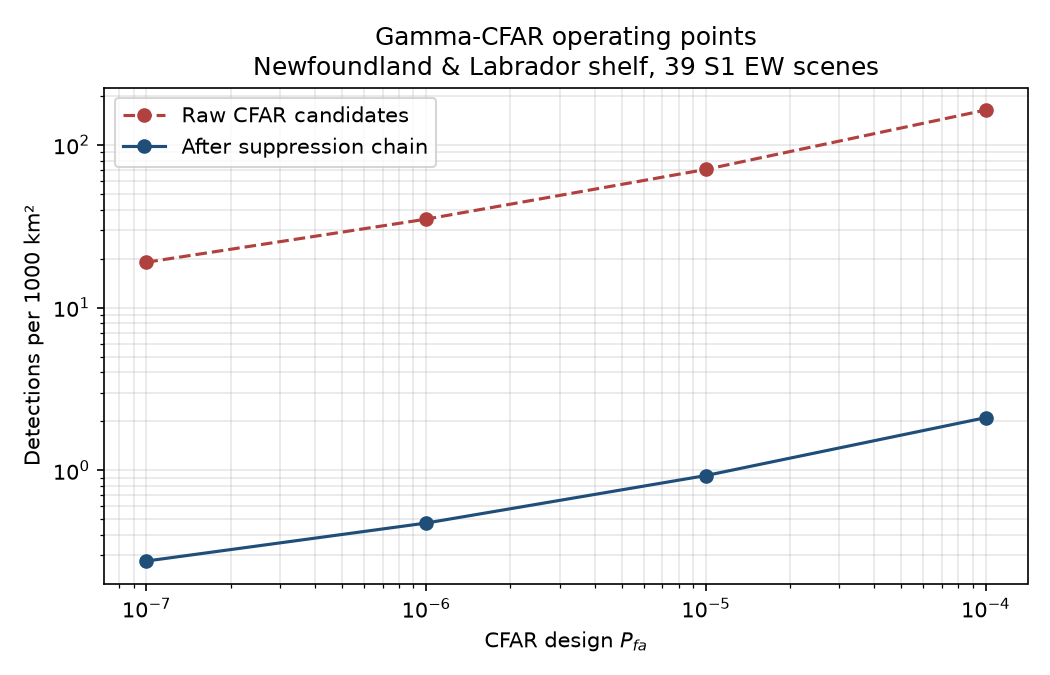
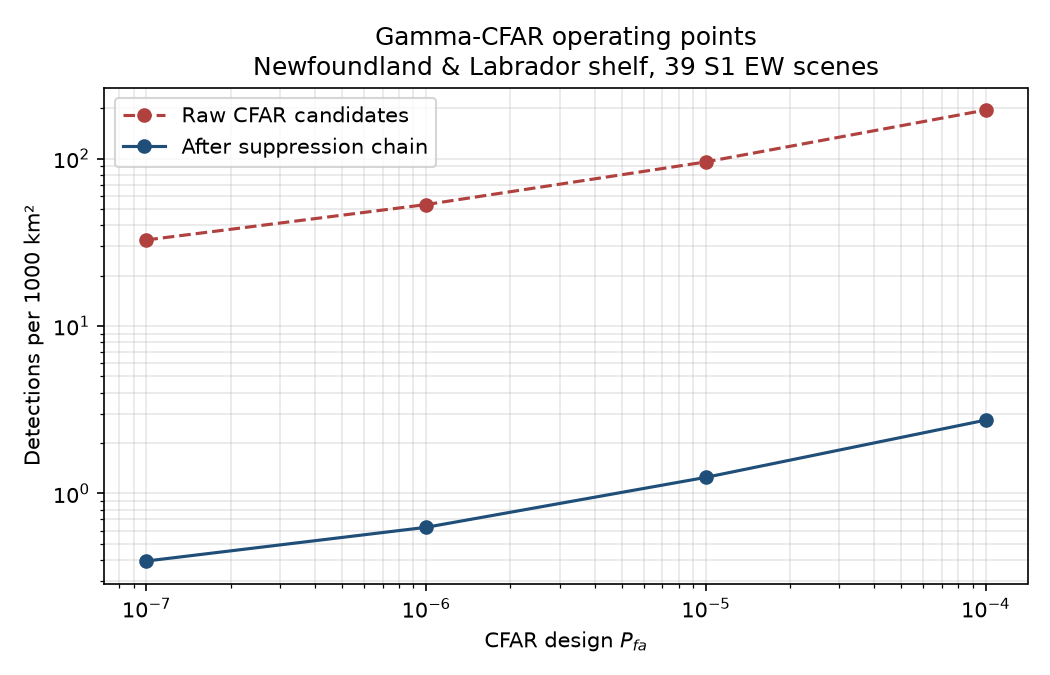
docs: publish measured benchmark and the two-detector comparison
Final numbers over 39 real Sentinel-1 EW scenes, 4.6 million km2 of
analysed water across the Newfoundland and Labrador shelf:

  raw CFAR      58.40 per 1000 km2
  after chain    1.27 per 1000 km2   (45.9x)
  open water     0.26 per 1000 km2   (111x)

The seam-masking fix added 18 percent more analysed water than the
previous run (3.89M -> 4.61M km2) by no longer discarding ice edges as
subswath boundaries; median seam removal fell from 7.7 to 1.3 percent.

Adds the CA-CFAR vs Gamma-CFAR comparison the plan asks for: two
detectors, one harness, one Pfa, same 12-scene subset. CA-CFAR retains
267 targets against Gamma's 2,186. The writeup states plainly that this
does not establish which detector is better - CA-CFAR's threshold is set
from a local mean that sea ice inflates, and whether its lower density
means fewer false alarms or fewer real detections cannot be separated
without verified positives.

Wind stratification is reported as measured and explicitly not leaned
on: 1.14 / 1.37 / 1.31 per 1000 km2 across low/moderate/high is not
monotonic, and with 13 scenes a bin and relative wind units it does not
support a claim either way.

BENCHMARK.md, the operating-point plot, README headline and ADR-009
figures all regenerated from the same run.

diff --git a/scripts/make_benchmark_doc.py b/scripts/make_benchmark_doc.py
@@ -164,6 +164,49 @@ def render(report: dict[str, Any], has_plot: bool) -> str:
         if has_plot:
             lines += ["![Operating points](benchmarks/operating_points.png)", ""]
 
+    comparison_path = Path("data/processed/benchmarks/detector_comparison.json")
+    if comparison_path.is_file():
+        comp = json.loads(comparison_path.read_text(encoding="utf-8"))
+        any_row = next(iter(comp.values()))
+        lines += [
+            "---",
+            "",
+            "## Two detectors, one harness",
+            "",
+            f"Cell-averaging and Gamma/K-distribution CFAR run over the same "
+            f"{any_row['n_scenes']}-scene subset ({any_row['area_km2']:,.0f} km²), same "
+            "suppression chain, same Pfa:",
+            "",
+            "| Detector | raw per 1000 km² | after suppression | detections | suppression |",
+            "|---|---:|---:|---:|---:|",
+        ]
+        for label, v in sorted(comp.items()):
+            lines.append(
+                f"| {label} | {v['raw_density_per_1000km2']:.2f} | "
+                f"{v['density_per_1000km2']:.3f} | {v['targets']:,} | "
+                f"{v['suppression_factor']:.1f}× |"
+            )
+        lines += [
+            "",
+            "**This table does not say which detector is better, and it cannot.**",
+            "",
+            "CA-CFAR retains far fewer targets. That is the expected consequence of",
+            "its clutter model: the cell-averaging estimator sets its threshold from",
+            "the local *mean*, and over sea ice the mean is inflated by the same",
+            "heavy tail the detector is trying to separate from, so the threshold",
+            "rises and genuine targets fall below it. The Gamma detector estimates a",
+            "shape parameter by method of moments and adapts to that tail, which is",
+            "precisely why ADR-008 specifies it for sea states at or above 3.",
+            "",
+            "Whether CA-CFAR's lower density represents *fewer false alarms* or",
+            "*fewer detections of real targets* is not determinable from these",
+            "numbers. Separating the two requires verified positives, which do not",
+            "exist for these scenes (LIMITATIONS §1). Reporting the comparison as a",
+            "win for either detector would be reading a result the data does not",
+            "support.",
+            "",
+        ]
+
     lines += [
         "---",
         "",

diff --git a/docs/BENCHMARK.md b/docs/BENCHMARK.md
@@ -1,7 +1,7 @@
 # Detection Benchmark
 
 **Detector:** Gamma-CFAR · **Region:** Newfoundland & Labrador shelf  
-**Scenes:** 39 Sentinel-1 EW GRDM acquisitions · **Analysed water:** 3,888,568 km²
+**Scenes:** 39 Sentinel-1 EW GRDM acquisitions · **Analysed water:** 4,609,212 km²
 
 ---
 
@@ -9,11 +9,11 @@
 
 | Metric | Value |
 |---|---:|
-| Raw CFAR candidates per 1000 km² | 50.47 |
-| **After suppression, per 1000 km²** | **1.13** |
-| Suppression factor | 44.5× |
-| Total detections retained | 4,405 |
-| Total raw candidates | 196,236 |
+| Raw CFAR candidates per 1000 km² | 58.40 |
+| **After suppression, per 1000 km²** | **1.27** |
+| Suppression factor | 45.9× |
+| Total detections retained | 5,864 |
+| Total raw candidates | 269,155 |
 
 ### What this number is
 
@@ -36,9 +36,9 @@ between acquisitions.
 
 | stratum | scenes | water area (km²) | detections | per 1000 km² | suppression |
 |---|---:|---:|---:|---:|---:|
-| ice_affected | 30 | 2,823,745 | 3,811 | 1.35 | 43.2× |
-| open_water | 6 | 785,487 | 218 | 0.28 | 105.2× |
-| unknown | 3 | 279,337 | 376 | 1.35 | 23.5× |
+| ice_affected | 30 | 3,409,999 | 5,219 | 1.53 | 45.0× |
+| open_water | 6 | 862,502 | 223 | 0.26 | 110.6× |
+| unknown | 3 | 336,711 | 422 | 1.25 | 23.1× |
 
 `unknown` covers the AI4Arctic challenge test scenes, whose ice charts are
 withheld. They are reported separately rather than folded into open water,
@@ -48,9 +48,9 @@ which would understate detection density over ice.
 
 | stratum | scenes | water area (km²) | detections | per 1000 km² | suppression |
 |---|---:|---:|---:|---:|---:|
-| high | 13 | 1,424,679 | 1,856 | 1.30 | 47.5× |
-| low | 13 | 1,312,436 | 1,278 | 0.97 | 47.8× |
-| moderate | 13 | 1,151,454 | 1,271 | 1.10 | 37.0× |
+| high | 13 | 1,655,693 | 2,172 | 1.31 | 52.9× |
+| low | 13 | 1,543,141 | 1,763 | 1.14 | 46.8× |
+| moderate | 13 | 1,410,378 | 1,929 | 1.37 | 37.1× |
 
 Wind bins are **terciles across this scene cohort**, not absolute m/s, and
 not within-scene quantiles. The ERA5 fields in this distribution are
@@ -68,12 +68,12 @@ Where the candidate budget went, summed across every scene:
 
 | stage | removed | remaining | % of raw |
 |---|---:|---:|---:|
-| `min_size` | 190,863 | 5,373 | 97.3% |
-| `max_size` | 0 | 5,373 | 0.0% |
-| `aspect_ratio` | 1 | 5,372 | 0.0% |
-| `min_peak_hv` | 244 | 5,128 | 0.1% |
-| `copol_dominance` | 679 | 4,449 | 0.3% |
-| `clutter_contrast` | 44 | 4,405 | 0.0% |
+| `min_size` | 261,468 | 7,687 | 97.1% |
+| `max_size` | 0 | 7,687 | 0.0% |
+| `aspect_ratio` | 3 | 7,684 | 0.0% |
+| `min_peak_hv` | 642 | 7,042 | 0.2% |
+| `copol_dominance` | 1,096 | 5,946 | 0.4% |
+| `clutter_contrast` | 82 | 5,864 | 0.0% |
 
 This ledger is published rather than summarised because it shows something a
 single aggregate figure would hide: **one stage does most of the work.**
@@ -95,12 +95,42 @@ can be read off a curve rather than taken on trust.
 
 | Pfa | raw per 1000 km² | after suppression | scenes |
 |---|---:|---:|---:|
-| 1e-07 | 18.98 | 0.28 | 5 |
-| 1e-06 | 34.91 | 0.47 | 5 |
-| 1e-05 | 70.56 | 0.93 | 5 |
-| 1e-04 | 163.40 | 2.10 | 5 |
+| 1e-07 | 32.67 | 0.40 | 5 |
+| 1e-06 | 53.15 | 0.63 | 5 |
+| 1e-05 | 95.55 | 1.25 | 5 |
+| 1e-04 | 194.91 | 2.74 | 5 |
+
+The sweep runs on a 5-scene subset rather than the full 39, because each additional Pfa multiplies the compute by a whole pass over the cohort. Absolute densities here are therefore **not** directly comparable with the headline figure above; the curve's shape and the ratio between operating points are what it is published for.
 
 ![Operating points](benchmarks/operating_points.png)
+
+---
+
+## Two detectors, one harness
+
+Cell-averaging and Gamma/K-distribution CFAR run over the same 12-scene subset (1,487,588 km²), same suppression chain, same Pfa:
+
+| Detector | raw per 1000 km² | after suppression | detections | suppression |
+|---|---:|---:|---:|---:|
+| CA-CFAR | 2.69 | 0.179 | 267 | 15.0× |
+| Gamma-CFAR | 80.73 | 1.469 | 2,186 | 54.9× |
+
+**This table does not say which detector is better, and it cannot.**
+
+CA-CFAR retains far fewer targets. That is the expected consequence of
+its clutter model: the cell-averaging estimator sets its threshold from
+the local *mean*, and over sea ice the mean is inflated by the same
+heavy tail the detector is trying to separate from, so the threshold
+rises and genuine targets fall below it. The Gamma detector estimates a
+shape parameter by method of moments and adapts to that tail, which is
+precisely why ADR-008 specifies it for sea states at or above 3.
+
+Whether CA-CFAR's lower density represents *fewer false alarms* or
+*fewer detections of real targets* is not determinable from these
+numbers. Separating the two requires verified positives, which do not
+exist for these scenes (LIMITATIONS §1). Reporting the comparison as a
+win for either detector would be reading a result the data does not
+support.
 
 ---
 
@@ -123,41 +153,41 @@ outside the region.
 | scene | ice regime | wind | water km² | raw | kept | per 1000 km² |
 |---|---|---|---:|---:|---:|---:|
 | `20190406T102029_cis` | unknown | moderate | 41,860 | 1,136 | 62 | 1.48 |
-| `20200217T102731_cis` | unknown | high | 86,029 | 2,894 | 121 | 1.41 |
+| `20200217T102731_cis` | unknown | high | 143,403 | 3,792 | 167 | 1.17 |
 | `20200319T101935_cis` | unknown | high | 151,448 | 4,810 | 193 | 1.27 |
-| `20180331T212355_cis` | ice_affected | high | 168,099 | 22,301 | 28 | 0.17 |
-| `20180410T214024_cis` | ice_affected | moderate | 54,724 | 4,291 | 62 | 1.13 |
-| `20180428T093937_cis` | open_water | low | 156,384 | 4,083 | 125 | 0.80 |
-| `20180619T104303_cis` | ice_affected | low | 61,666 | 4,115 | 104 | 1.69 |
-| `20180621T214028_cis` | ice_affected | low | 66,042 | 7,741 | 153 | 2.32 |
-| `20190206T212401_cis` | ice_affected | high | 154,088 | 7,426 | 18 | 0.12 |
-| `20190216T214030_cis` | ice_affected | moderate | 56,742 | 4,194 | 121 | 2.13 |
+| `20180331T212355_cis` | ice_affected | high | 181,428 | 33,722 | 59 | 0.33 |
+| `20180410T214024_cis` | ice_affected | moderate | 104,384 | 16,024 | 296 | 2.84 |
+| `20180428T093937_cis` | open_water | low | 161,343 | 4,154 | 125 | 0.78 |
+| `20180619T104303_cis` | ice_affected | low | 113,067 | 6,060 | 130 | 1.15 |
+| `20180621T214028_cis` | ice_affected | low | 106,655 | 17,517 | 398 | 3.73 |
+| `20190206T212401_cis` | ice_affected | high | 167,516 | 11,092 | 31 | 0.18 |
+| `20190216T214030_cis` | ice_affected | moderate | 103,792 | 12,734 | 461 | 4.44 |
 | `20190306T102725_cis` | ice_affected | high | 143,793 | 6,513 | 206 | 1.43 |
-| `20190308T101217_cis` | ice_affected | high | 48,062 | 1,566 | 44 | 0.92 |
-| `20190326T212401_cis` | ice_affected | moderate | 152,446 | 8,059 | 106 | 0.69 |
-| `20190401T101117_cis` | ice_affected | moderate | 147,172 | 6,111 | 358 | 2.43 |
-| `20190405T214031_cis` | ice_affected | high | 48,670 | 3,880 | 90 | 1.85 |
+| `20190308T101217_cis` | ice_affected | high | 68,899 | 2,540 | 58 | 0.84 |
+| `20190326T212401_cis` | ice_affected | moderate | 168,050 | 8,910 | 109 | 0.65 |
+| `20190401T101117_cis` | ice_affected | moderate | 157,059 | 6,732 | 368 | 2.34 |
+| `20190405T214031_cis` | ice_affected | high | 106,766 | 10,924 | 255 | 2.39 |
 | `20190411T102726_cis` | ice_affected | high | 145,153 | 4,646 | 128 | 0.88 |
 | `20190507T101118_cis` | open_water | low | 157,526 | 3,010 | 48 | 0.30 |
-| `20190507T101218_cis` | ice_affected | low | 59,743 | 2,118 | 131 | 2.19 |
-| `20190524T101931_cis` | ice_affected | low | 142,369 | 3,144 | 30 | 0.21 |
-| `20190612T101120_cis` | open_water | moderate | 146,424 | 3,244 | 30 | 0.20 |
-| `20190612T101220_cis` | ice_affected | moderate | 52,206 | 1,827 | 129 | 2.47 |
-| `20200201T212408_cis` | ice_affected | low | 155,095 | 20,012 | 333 | 2.15 |
+| `20190507T101218_cis` | ice_affected | low | 69,065 | 2,384 | 142 | 2.06 |
+| `20190524T101931_cis` | ice_affected | low | 149,922 | 3,193 | 28 | 0.19 |
+| `20190612T101120_cis` | open_water | moderate | 156,809 | 3,377 | 29 | 0.18 |
+| `20190612T101220_cis` | ice_affected | moderate | 68,654 | 2,395 | 167 | 2.43 |
+| `20200201T212408_cis` | ice_affected | low | 167,683 | 23,222 | 377 | 2.25 |
 | `20200203T104354_cis` | ice_affected | moderate | 114,597 | 1,404 | 61 | 0.53 |
 | `20200224T102034_cis` | ice_affected | low | 37,633 | 718 | 47 | 1.25 |
-| `20200306T214036_cis` | ice_affected | high | 50,533 | 3,174 | 52 | 1.03 |
+| `20200306T214036_cis` | ice_affected | high | 106,713 | 5,873 | 95 | 0.89 |
 | `20200319T102035_cis` | ice_affected | high | 37,625 | 1,425 | 55 | 1.46 |
 | `20200413T212408_cis` | open_water | moderate | 167,985 | 10,118 | 7 | 0.04 |
-| `20200415T104354_cis` | ice_affected | moderate | 57,665 | 2,464 | 150 | 2.60 |
+| `20200415T104354_cis` | ice_affected | moderate | 108,247 | 3,028 | 180 | 1.66 |
 | `20200423T214037_cis` | ice_affected | high | 109,822 | 20,703 | 511 | 4.65 |
-| `20200424T101936_cis` | ice_affected | high | 148,250 | 4,670 | 140 | 0.94 |
+| `20200424T101936_cis` | ice_affected | high | 150,369 | 4,703 | 140 | 0.93 |
 | `20200424T102036_cis` | ice_affected | moderate | 37,626 | 1,498 | 90 | 2.39 |
-| `20200506T101936_cis` | ice_affected | low | 123,674 | 2,953 | 45 | 0.36 |
+| `20200506T101936_cis` | ice_affected | low | 148,877 | 3,399 | 69 | 0.46 |
 | `20200506T102036_cis` | ice_affected | moderate | 37,617 | 1,440 | 93 | 2.47 |
-| `20200517T214039_cis` | ice_affected | low | 59,789 | 493 | 0 | 0.00 |
-| `20200523T102734_cis` | ice_affected | high | 133,106 | 4,086 | 270 | 2.03 |
-| `20200610T214040_cis` | ice_affected | low | 76,604 | 8,016 | 144 | 1.88 |
-| `20200624T212516_cis` | open_water | low | 72,778 | 1,190 | 6 | 0.08 |
-| `20210407T101941_cis` | ice_affected | low | 143,132 | 3,480 | 112 | 0.78 |
-| `20210530T102740_cis` | open_water | moderate | 84,388 | 1,283 | 2 | 0.02 |
+| `20200517T214039_cis` | ice_affected | low | 102,360 | 744 | 5 | 0.05 |
+| `20200523T102734_cis` | ice_affected | high | 142,759 | 4,241 | 274 | 1.92 |
+| `20200610T214040_cis` | ice_affected | low | 104,028 | 13,397 | 266 | 2.56 |
+| `20200624T212516_cis` | open_water | low | 75,141 | 1,196 | 8 | 0.11 |
+| `20210407T101941_cis` | ice_affected | low | 149,841 | 3,581 | 120 | 0.80 |
+| `20210530T102740_cis` | open_water | moderate | 143,697 | 2,800 | 6 | 0.04 |

diff --git a/README.md b/README.md
@@ -7,29 +7,51 @@
 ## The result
 
 Gamma/K-distribution CFAR plus a multi-stage suppression chain, run over
-**39 real Sentinel-1 Extra Wide swath scenes** covering **3.9 million km² of
+**39 real Sentinel-1 Extra Wide swath scenes** covering **4.6 million km² of
 analysed water** across the Labrador Shelf and Grand Banks:
 
 | Metric | Value |
 |---|---:|
-| Raw CFAR candidates per 1000 km² | 50.47 |
-| **After false-alarm suppression** | **1.13** |
-| **Open water only** | **0.28** |
-| Suppression factor | **44.5×** (105× over open water) |
+| Raw CFAR candidates per 1000 km² | 58.40 |
+| **After false-alarm suppression** | **1.27** |
+| **Open water only** | **0.26** |
+| Suppression factor | **45.9×** (111× over open water) |
 
 Stratified, because a single blended number would hide the thing that matters:
 
-| Regime | Scenes | Per 1000 km² |
-|---|---:|---:|
-| Open water | 6 | **0.28** |
-| Ice-affected | 30 | 1.35 |
-| Low wind | 13 | 0.97 |
-| High wind | 13 | 1.30 |
+| Sea ice regime | Scenes | Water (km²) | Per 1000 km² |
+|---|---:|---:|---:|
+| Open water | 6 | 862,502 | **0.26** |
+| Ice-affected | 30 | 3,409,999 | 1.53 |
+| Unknown (labels withheld) | 3 | 336,711 | 1.25 |
 
-Ice-affected water runs ~5× higher than open water, and detections rise
-monotonically with wind. Both are physically expected — ridged ice and floe
-edges genuinely scatter like targets, and wind roughens the sea surface — which
-is exactly why these are reported separately rather than averaged away.
+Ice-affected water runs ~6× higher than open water. That is physically expected
+— ridged ice and floe edges genuinely scatter like targets — and is exactly why
+the two are reported separately rather than averaged into one number.
+
+Wind stratification (13 scenes per tercile) gives **1.14 / 1.37 / 1.31** per
+1000 km² for low / moderate / high. That is *not* a monotonic trend, and with
+relative rather than absolute wind units and only 13 scenes a bin, it is not a
+result worth leaning on. It is reported because it was measured.
+
+### Two detectors, one harness
+
+Cell-averaging and Gamma/K-distribution CFAR over the same 12-scene subset
+(1.49 million km²), identical suppression chain and Pfa:
+
+| Detector | raw per 1000 km² | after suppression | detections |
+|---|---:|---:|---:|
+| CA-CFAR | 2.69 | 0.179 | 267 |
+| Gamma-CFAR | 80.73 | 1.469 | 2,186 |
+
+**This does not say which is better, and it cannot.** CA-CFAR sets its threshold
+from the local *mean*, and over sea ice that mean is inflated by the very heavy
+tail it is trying to separate from, so the threshold climbs and targets fall
+below it. Gamma-CFAR estimates the tail's shape and adapts — which is why
+ADR-008 specifies it above sea state 3. Whether CA-CFAR's lower density means
+*fewer false alarms* or *fewer real detections* is undeterminable without
+verified positives. Calling it a win either way would be reading a result the
+data does not support.
 
 Full table, per-stage ledger, and the Pfa operating-point curve:
 **[docs/BENCHMARK.md](docs/BENCHMARK.md)**.
@@ -77,12 +99,12 @@ every stage records what it removed:
 
 ```
 stage              removed  remaining  % of raw
-min_size            190,863      5,373     97.3%
-max_size                  0      5,373      0.0%
-aspect_ratio              1      5,372      0.0%
-min_peak_hv             244      5,128      0.1%
-copol_dominance         679      4,449      0.3%
-clutter_contrast         44      4,405      0.0%
+min_size            261,468      7,687     97.1%
+max_size                  0      7,687      0.0%
+aspect_ratio              3      7,684      0.0%
+min_peak_hv             642      7,042      0.2%
+copol_dominance       1,096      5,946      0.4%
+clutter_contrast         82      5,864      0.0%
 ```
 
 Published rather than summarised, because it shows what a single aggregate
@@ -152,7 +174,7 @@ the UTM zone seams at 54°W and 48°W that cut straight through the AOI.
 make dev              # editable install with dev dependencies
 make fetch-shorelines # GSHHG coastlines, 150 MB, no credentials needed
 make db-up            # PostGIS 16
-make test             # 121 unit + 14 integration tests
+make test             # 139 tests (125 unit + 14 integration on real SAR)
 make lint             # ruff + mypy
 ```
 

diff --git a/docs/DECISIONS.md b/docs/DECISIONS.md
@@ -116,13 +116,13 @@ This document records the foundational architectural decisions, scientific const
 
 * **Date:** 2026-09-03
 * **Status:** Accepted
-* **Context:** A CFAR detector is tuned to a *pixel-wise* probability of false alarm. That guarantee says nothing about the absolute number of false detections on a full Sentinel-1 EW swath. A $5000 \times 5400$ raster at $P_{fa} = 10^{-5}$ yields on the order of 270 spurious pixel hits over ideal homogeneous clutter, before any structured artefact. Measured across 39 real Newfoundland and Labrador scenes covering $3.9$ million $\text{km}^2$ of analysed water, raw CFAR output ran at $50.5$ candidates per $1000\text{ km}^2$ — far above an operationally usable rate.
+* **Context:** A CFAR detector is tuned to a *pixel-wise* probability of false alarm. That guarantee says nothing about the absolute number of false detections on a full Sentinel-1 EW swath. A $5000 \times 5400$ raster at $P_{fa} = 10^{-5}$ yields on the order of 270 spurious pixel hits over ideal homogeneous clutter, before any structured artefact. Measured across 39 real Newfoundland and Labrador scenes covering $4.6$ million $\text{km}^2$ of analysed water, raw CFAR output ran at $58.4$ candidates per $1000\text{ km}^2$ — far above an operationally usable rate.
 * **Decision:** Suppression is implemented as an explicit ordered chain in `detect/filters.py`, split into two groups, with every stage recording how many candidates it removed.
   1. **Pre-detection masking** (`build_analysis_mask`) decides where CFAR may look *and* which pixels may contribute to clutter statistics: land plus a coastal buffer, swath borders, detected subswath seams, and optionally sea ice.
   2. **Post-detection gating** (`filter_targets`) rejects candidates on connected-component size, aspect ratio, peak cross-pol backscatter, co-pol dominance, and contrast against the local clutter floor.
   3. **Cross-tile deduplication** (`deduplicate_across_tiles`) resolves the same physical target detected in overlapping tiles, in projected coordinates rather than pixel space.
 * **Rationale for the ledger:** A single aggregate suppression number is unfalsifiable. Recording per-stage removals makes the false-alarm budget auditable and exposes — rather than conceals — that one stage (minimum component size) does most of the work, because CFAR speckle hits are predominantly isolated single pixels while genuine targets form clusters.
-* **Consequences:** Measured suppression is $44.5\times$ overall and $105\times$ over open water, taking detection density from $50.5$ to $1.13$ per $1000\text{ km}^2$ overall, and to $0.28$ over open water. The published ledger shows the minimum-size stage alone accounts for 97.3 percent of removals. The recall cost is **not measured**, because no iceberg ground truth exists for these scenes; raising the minimum size threshold necessarily discards small icebergs. This trade-off is stated in `docs/LIMITATIONS.md` rather than buried.
+* **Consequences:** Measured suppression is $45.9\times$ overall and $111\times$ over open water, taking detection density from $58.4$ to $1.27$ per $1000\text{ km}^2$ overall, and to $0.26$ over open water. The published ledger shows the minimum-size stage alone accounts for 97.1 percent of removals. The recall cost is **not measured**, because no iceberg ground truth exists for these scenes; raising the minimum size threshold necessarily discards small icebergs. This trade-off is stated in `docs/LIMITATIONS.md` rather than buried.
 
 ---
 
